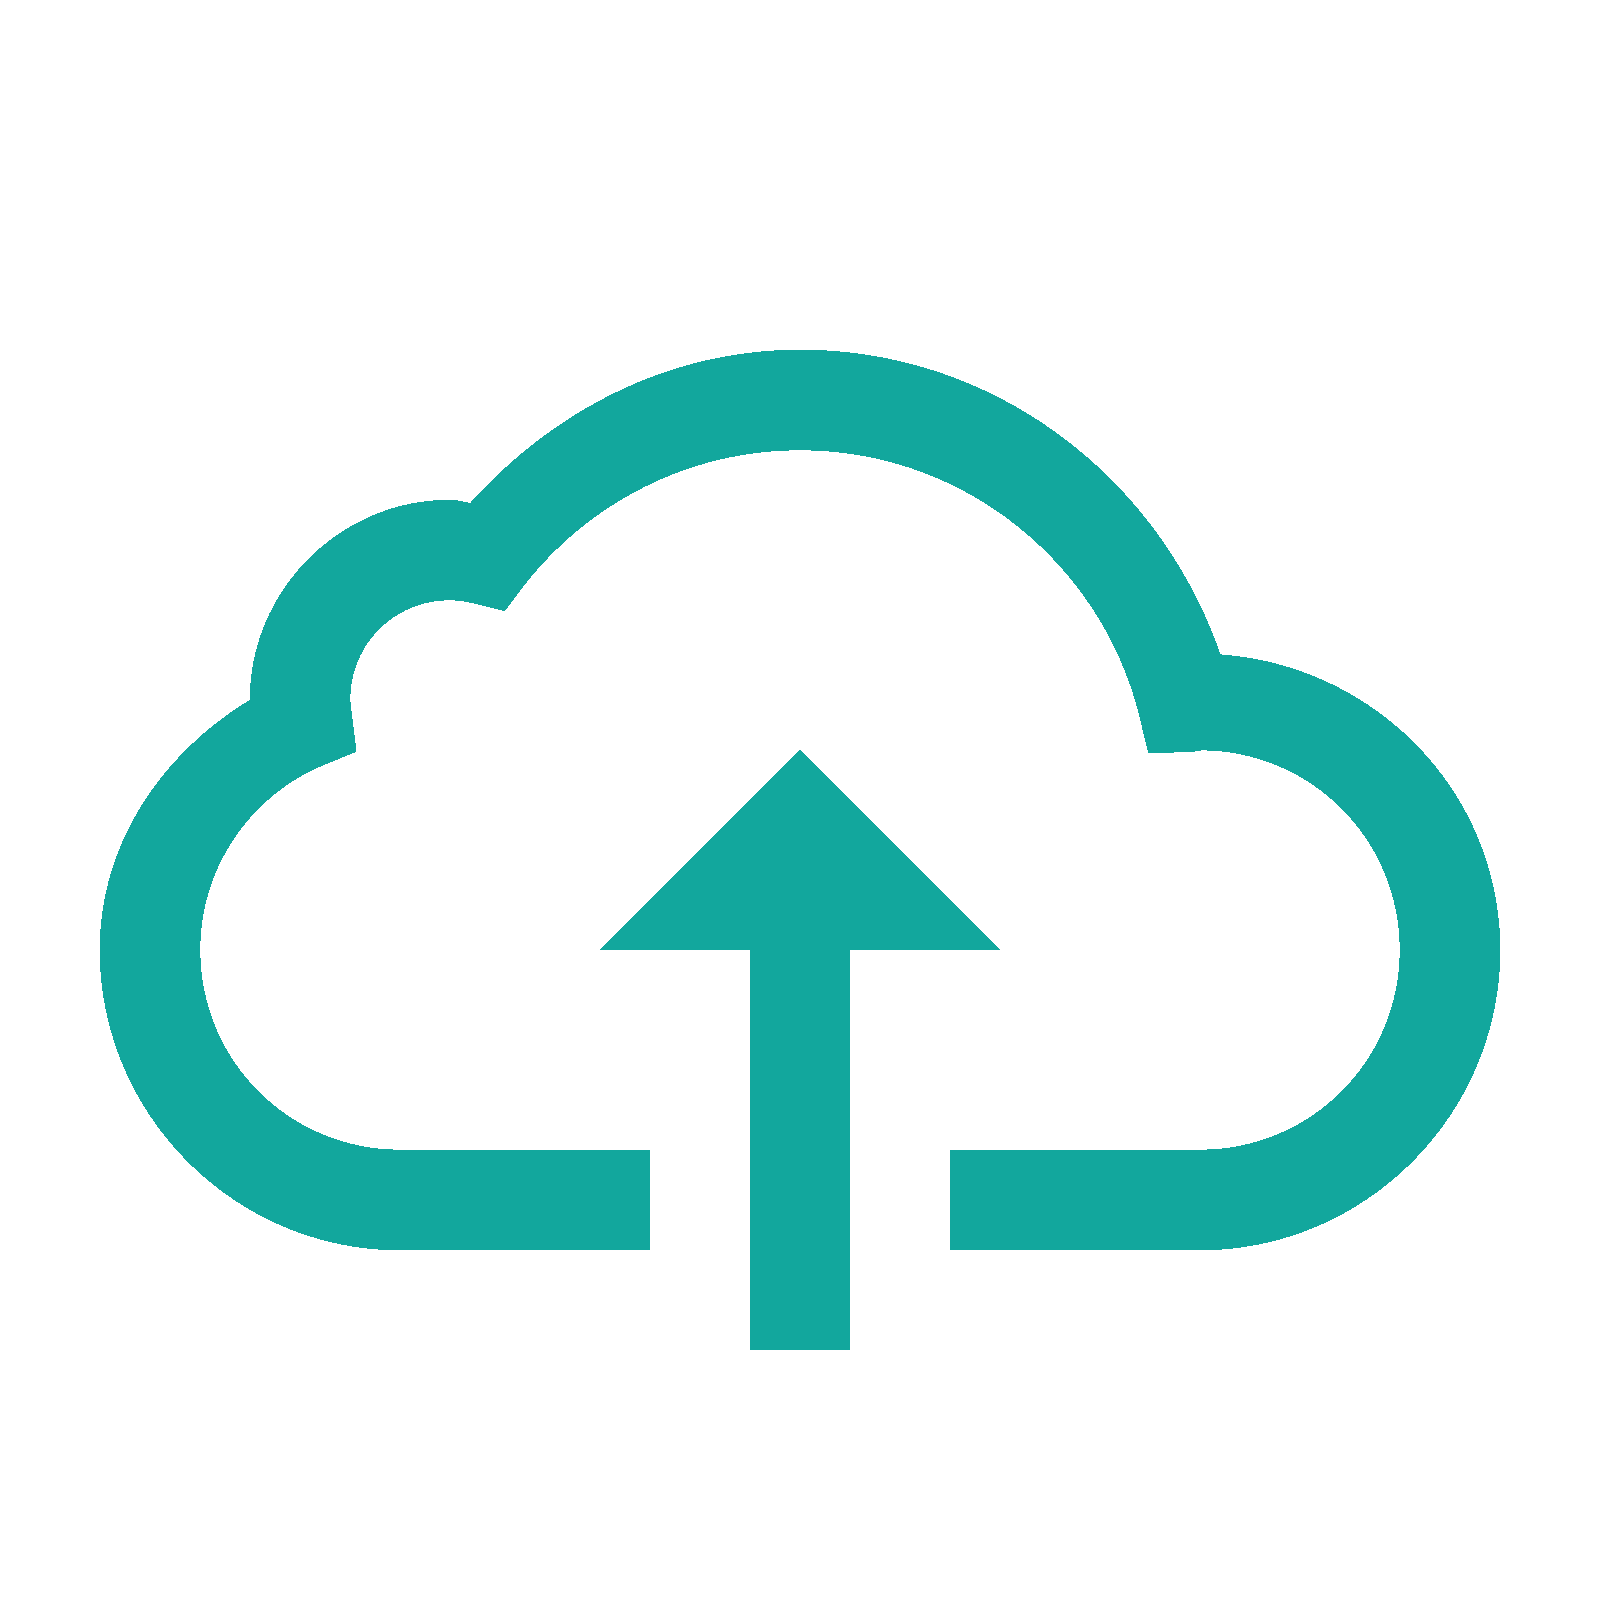
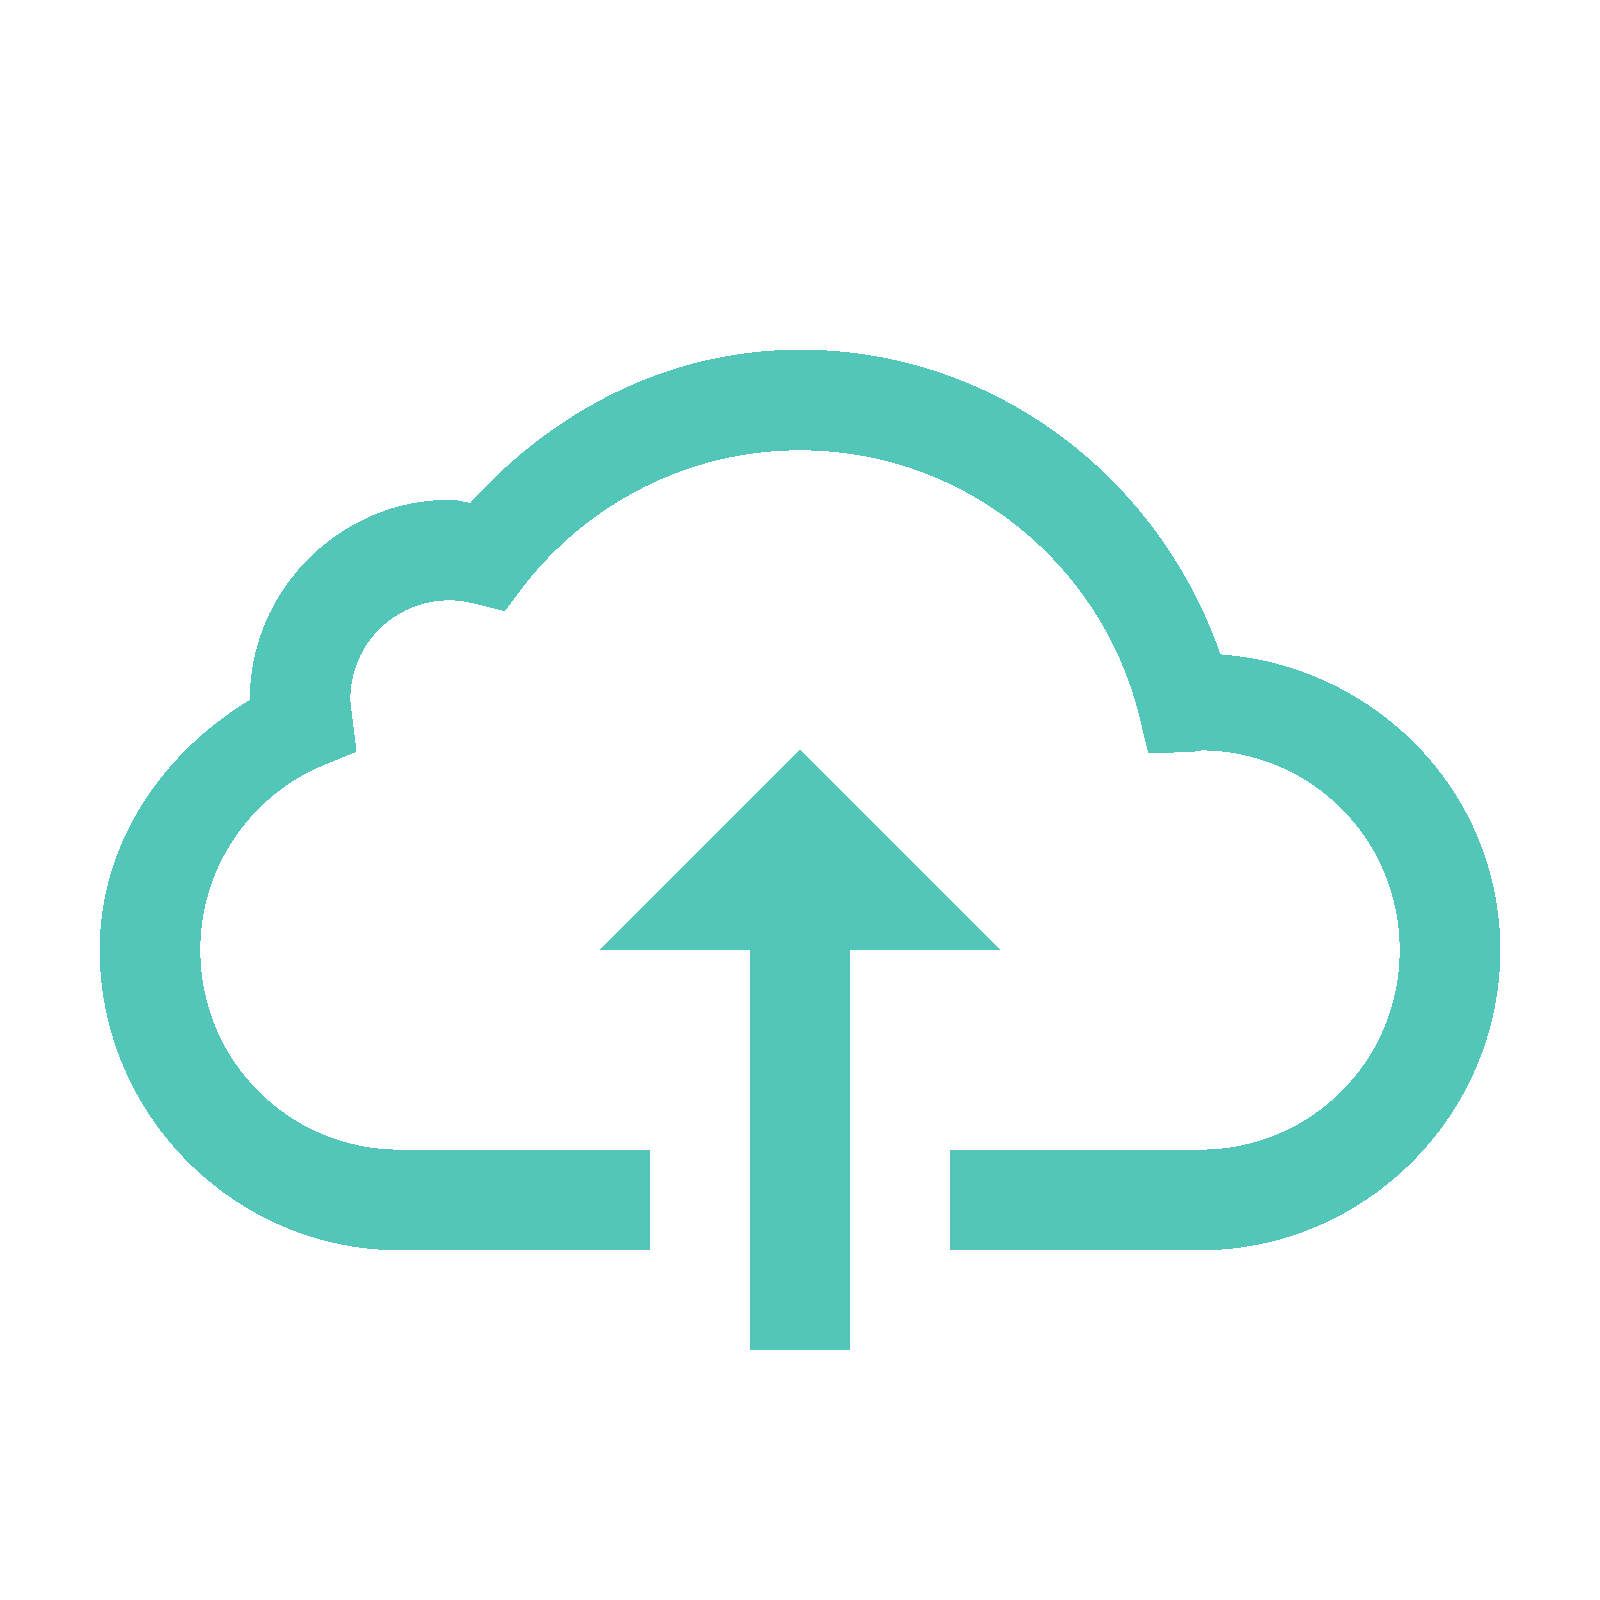
changes to components

Changed region(s): [[0.0625, 0.2188, 0.9375, 0.7812], [0.375, 0.4688, 0.625, 0.8438]]

diff --git a/officespace-frontend/src/components/form/form.js b/officespace-frontend/src/components/form/form.js
@@ -6,7 +6,7 @@ import './form.css';
 import AWS from 'aws-sdk';
 import uuid from 'uuid';
 import Header from '../Header/Header';
-import {Card, CardBody} from 'reactstrap';
+import {Card, CardBody, CardHeader} from 'reactstrap';
 
 class UserForm extends Component
 {
@@ -176,17 +176,19 @@ onClickSubmitForm(event)
 
 
                 width: "calc(100%-280px)",
-                height:"95vh",
+                height:"100vh",
                 overflow: "auto",
                 backgroundColor:"#fafcfe",
                 minHeight: "100%",
                 boxShadow: "0 30px 130px 0 rgba(90, 105, 116, 0.1)"
+
             }}>
-                <Card>
-                    <CardBody>
+            <Card>       
+                    <CardBody id="card-body">
+
                         <div className="user-form">
 
-                            <p className="font-form paragraph-header">User Form</p>
+                           <p className="font-form paragraph-header">User Form </p>
                             <div className="signin-form-group">
                                 <label htmlFor="inputTextUsername">Username</label>
                                 <input onKeyUp={this.onKeyUpInputTextUsername} type="text" className="form-control form-input-position" id="inputTextUsername" placeholder="Username"/>
@@ -221,11 +223,12 @@ onClickSubmitForm(event)
                                     <option value="option">EU-West-3 (Paris)</option>
                                 </select>
                             </div>
-                            <button onClick={this.onClickSubmitForm}  className="btn btn-info w-10 form-submit-button">Submit</button>
+                            <button onClick={this.onClickSubmitForm}  className="btn w-10 form-submit-button">Submit</button>
 
                         </div>
                     </CardBody>
-                </Card>
+                
+        			</Card>
             </div>
 
 	

diff --git a/officespace-frontend/src/components/form/form.css b/officespace-frontend/src/components/form/form.css
@@ -7,13 +7,19 @@ margin-left: 10px;
 padding: 15px 35px 35px 45px;
 border-color: #000;
 
+
 }
 
 .card{
 width: 480px;
 background-color: #ffffff;
-box-shadow: 10px 10px 25px #808080;
+ box-shadow: 0 4px 8px 0 rgba(0, 0, 0, 0.2), 0 6px 20px 0 rgba(0, 0, 0, 0.19);
 margin: 30px auto 30px auto;
+
+}
+
+#card-body{
+	background-color:#fcfbff;
 }
 
 .paragraph-header{
@@ -21,39 +27,52 @@ padding: 15px 50px 0 25px;
 font-size: 30px;
 font-weight: 400;
 display: inline-block;
-width: 50%;
-height: 40px;
-background-color:white;
+width: 100%;
+height: 80px;
+background-color: #FAB131;
+
+
+color:white;
 }
 
 #inputTextUsername{
 width:50%;
+
 }
 
 #inputTextPassword{
 width:50%;
+background-color: #fcfbff;
+
 
 }
 
 #inputTextEmail{
 width:50%;
+
 }
 
 #inputTextBucket{
 width:50%;
+
 }
 
 #inputTextImgUrl{
 width:50%;
+
 }
 
 #inputSelectRegion{
 width:50%;
+
 }
 
 .form-submit-button{
+	width:76%;
 display: block;
 margin: 50px 50px;
+background-color: #FAB131;
+
 }
 
 .form-input-position{

diff --git a/officespace-frontend/src/pages/Admin/AdminDash.js b/officespace-frontend/src/pages/Admin/AdminDash.js
@@ -8,12 +8,14 @@ import {Col, Row, Container, Card, CardBody, CardTitle} from 'reactstrap';
 import ClientTable from "../../components/client-table/client-table";
 
 
-
+import Basic from '../../components/dnd/dnd';
+import UserForm from '../../components/form/form';
+import Login from '../../pages/Home/login-page';
 const Dashboard = () => (
     <div className="main-panel" style={{
 
   width: "calc(100%-280px)",
-  height:"95vh",
+  height:"100vh",
   overflow: "auto",
   backgroundColor:"#fafcfe",
   minHeight: "100%",
@@ -21,15 +23,13 @@ const Dashboard = () => (
 }}>
 
 <SideBar/>
- 
 
   <div className="content" style={{padding:"10px", marginLeft:"300px"}}>
 
  <Col md="12">
-<CompanyCards/>
+ 
 
-<AdminTable/>
-<ClientTable/>
+<Login/>
 
 
 </Col>

diff --git a/officespace-frontend/src/components/PeopleCard/PeopleCard.js b/officespace-frontend/src/components/PeopleCard/PeopleCard.js
@@ -31,7 +31,7 @@ class PeopleCard extends Component {
           <CardBody style={{backgroundColor:"white", padding:"10px 30px 20px 30px"}}>
             <CardSubtitle>{this.props.person.company}</CardSubtitle>
             <CardText >{this.props.person.description}</CardText>
-            <Button style={{backgroundColor:"#71AC95", marginTop:"-20px", float:"right", width:"100px", borderColor:"rgb(113, 172, 149)"}}>Delete</Button>
+            <Button style={{backgroundColor:"#2BAD9E", marginTop:"-20px", float:"right", width:"100px", borderColor:"#2BAD9E"}}>Delete</Button>
           </CardBody>
         </Card>
 </Row>

diff --git a/officespace-frontend/src/components/Header/Header.js b/officespace-frontend/src/components/Header/Header.js
@@ -9,7 +9,7 @@ import Badge from '../badge/badge';
 
 
             <Navbar className="main-header" style={{backgroundColor:"#efefef",
-                                                    height:"80px", 
+                                                    height:"88px", 
                                                     width:"100%",
                                                     marginTop:"-25px",
                                                     paddingBottom:"40px", 

diff --git a/officespace-frontend/src/components/Header/Header.css b/officespace-frontend/src/components/Header/Header.css
@@ -10,7 +10,7 @@
 }
 
 .username{
-  margin-top: -13px;
+  margin-top: -6px;
 }
 
 .user-wrapper .user .userinfo .title{
@@ -39,7 +39,7 @@
 height:35px;
  width:40px;
  border-radius: 60%;
-margin-top: -11px;
+margin-top: 0px;
  margin-left: 650px;
     object-position:center right;
 
@@ -56,7 +56,7 @@ ul{
   position: absolute;
   display: inline-block;
   margin-left: 600px;
-  margin-top: -12px;
+  margin-top: -2px;
 
 }
 

diff --git a/officespace-frontend/src/components/dnd/dnd.js b/officespace-frontend/src/components/dnd/dnd.js
@@ -20,11 +20,12 @@ class Basic extends Component {
   render() {
     return (
   <div className="top">  
-<SideBar/>
-<Header/>
+
+
 <Card id="dndCard" >
 
-<CardHeader style={{backgroundColor:"#12a79d"}}>
+<CardHeader style={{backgroundColor: "rgb(83, 198, 186)"
+}}>
           <h2 style={{marginTop:"20px", color:"#ffffff"}}>Upload</h2>
           </CardHeader>
           <ul>

diff --git a/officespace-frontend/src/pages/Home/login-page.js b/officespace-frontend/src/pages/Home/login-page.js
@@ -52,7 +52,8 @@ export default class Login extends Component {
 
       <h1 style={{
   fontWeight:"500", fontSize:"100px"}} id="geo">GeoFirm</h1>
-      <h5 style={{marginLeft:"80px"}}>Powered by OfficeSpace</h5>
+      <h5 style={{marginLeft:"80px"
+}}>Powered by OfficeSpace</h5>
 
      </div>
       </Col>

diff --git a/officespace-frontend/src/components/footer/footer.css b/officespace-frontend/src/components/footer/footer.css
@@ -3,12 +3,18 @@ background-color: #F5F7FA;
 
 
 color:#404A5D;
-margin-top: -35px;
+margin-top: 80px;
 font-size: 12px;
   padding: 0 10px;
 display: inline-grid;
-float:right;}
+float:right;
+width: 100vw;
+
+
+
+}
 
 .footer-copyright{
-	text-align:right;
+	text-align:center;
+	margin-left: 170px;
 }

diff --git a/officespace-frontend/public/index.html b/officespace-frontend/public/index.html
@@ -20,6 +20,7 @@
       Learn how to configure a non-root public URL by running `npm run build`.
     -->
 <link href="https://fonts.googleapis.com/css?family=Nunito+Sans" rel="stylesheet">
+<link href="https://fonts.googleapis.com/css?family=Pacifico" rel="stylesheet">
 
     
   

diff --git a/officespace-frontend/src/components/dnd/dnd.css b/officespace-frontend/src/components/dnd/dnd.css
@@ -20,8 +20,8 @@ width:100px;
 
 #dndButton{
 width:10vw;
-background-color: #F88561;
-border-color:#F88561;
+background-color: rgb(83, 198, 186);
+border-color:rgb(83, 198, 186);
 margin-top:30px;
 margin-left: 330px;
 }

diff --git a/officespace-frontend/src/pages/Home/login-page.css b/officespace-frontend/src/pages/Home/login-page.css
@@ -132,7 +132,10 @@ margin-left: -100px;
 /*style={{ marginTop:"-200px", height:"300px"}}
 */
 
+h5{
+font-family: 'Pacifico', cursive;
 
+}
 
 #geo{
 	color: #95a4dc;
